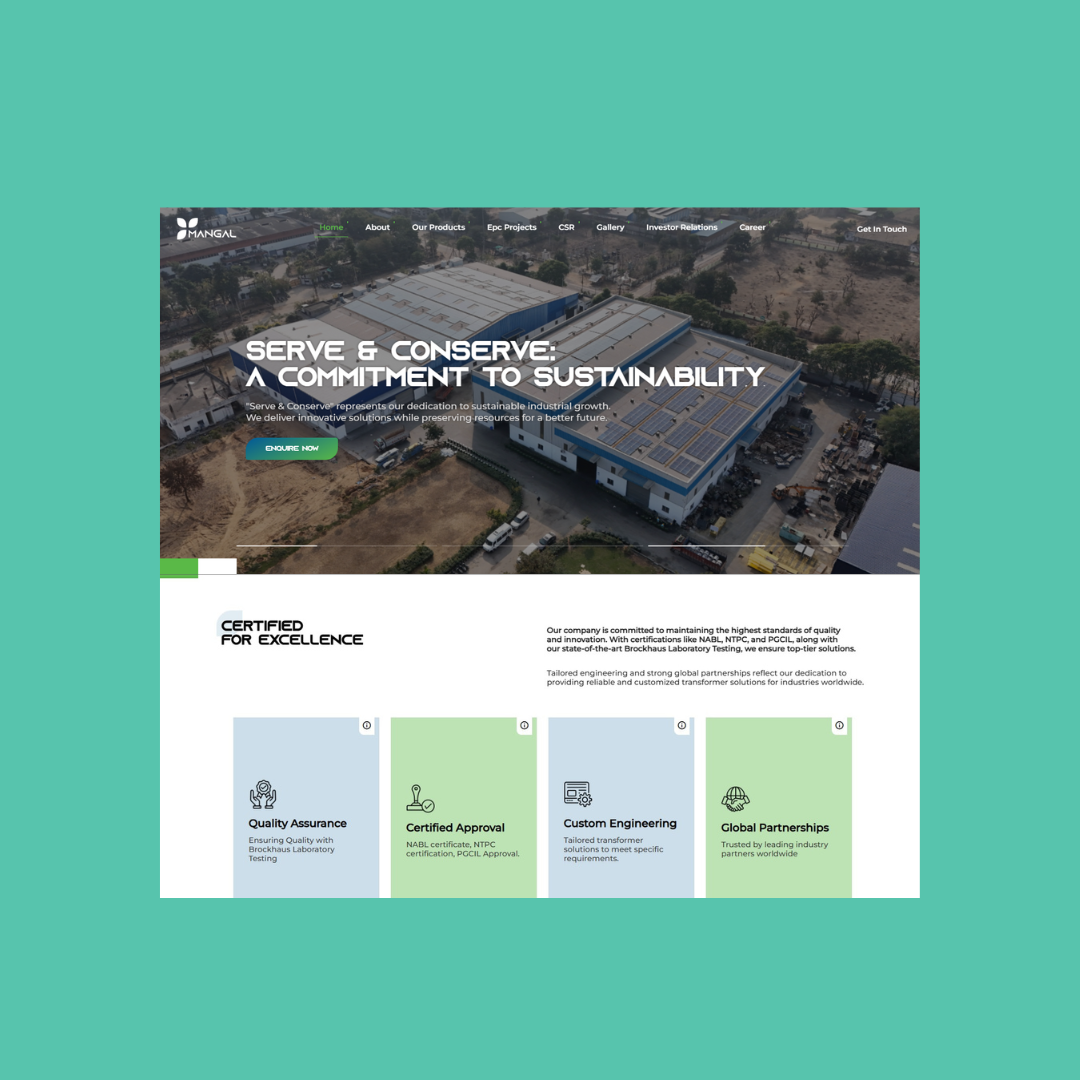
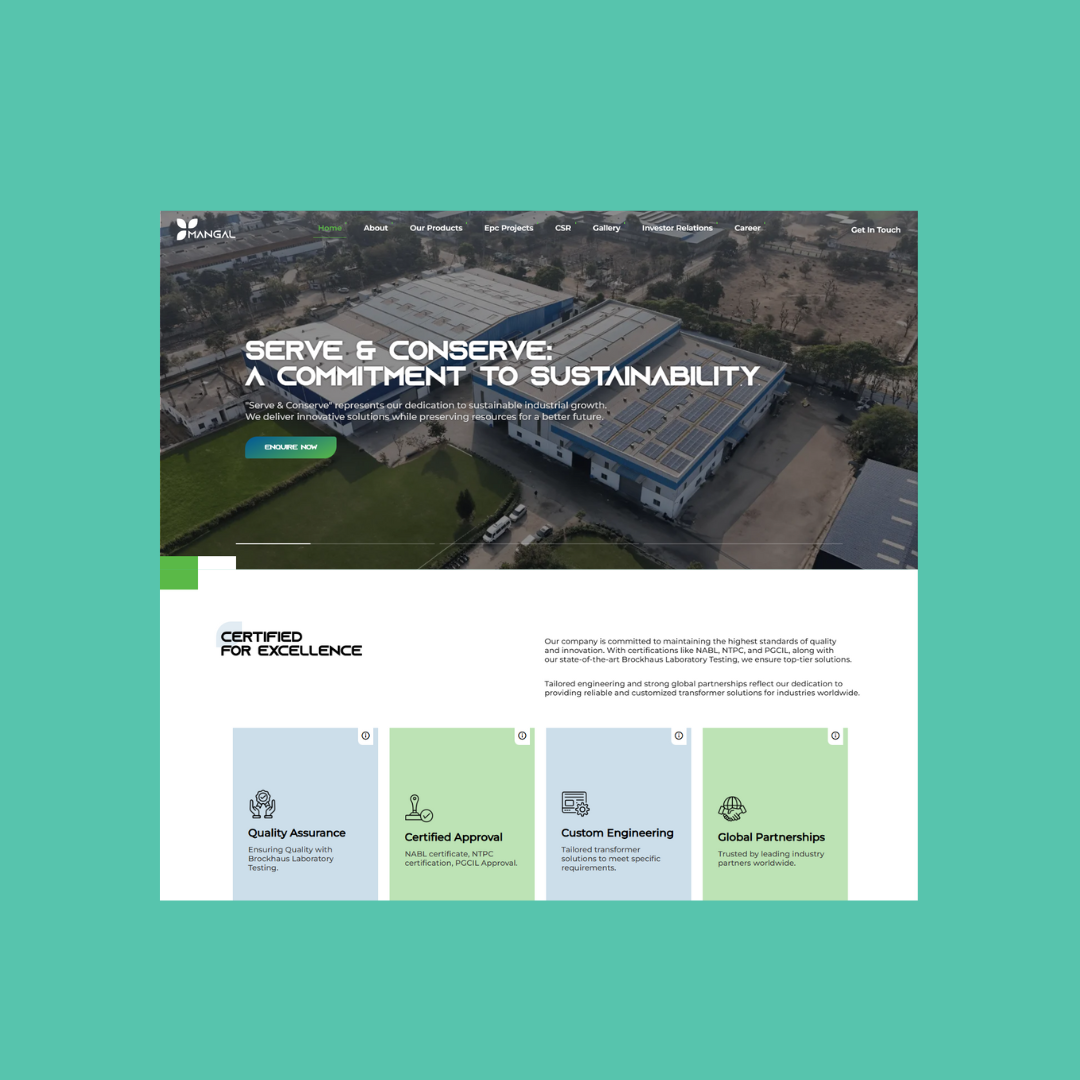
commit

diff --git a/index.html b/index.html
@@ -118,13 +118,13 @@
             style="transform: translate(100%, 100%)"
           >
             <div>
-              <p>juhunt.tech</p>
+              <p>jmangals.com</p>
               <div data-animate="true">
-                <img class="site-snapshots" src="./images/sites-snap-shots/juspace-1.png" loading="lazy" alt="Aeizei" />
-                <img class="site-snapshots" src="./images/sites-snap-shots/juspace-2.png" loading="lazy" alt="Aeizei" />
-                <img class="site-snapshots" src="./images/sites-snap-shots/juspace-3.png" loading="lazy" alt="Aeizei" />
-                <img class="site-snapshots" src="./images/sites-snap-shots/juspace-4.png" loading="lazy" alt="Aeizei" />
-                <img class="site-snapshots" src="./images/sites-snap-shots/juspace-5.png" loading="lazy" alt="Aeizei" />
+                <img class="site-snapshots" src="./images/sites-snap-shots/mangals-1.png" loading="lazy" alt="Aeizei" />
+                <img class="site-snapshots" src="./images/sites-snap-shots/mangals-2.png" loading="lazy" alt="Aeizei" />
+                <img class="site-snapshots" src="./images/sites-snap-shots/mangals-3.png" loading="lazy" alt="Aeizei" />
+                <img class="site-snapshots" src="./images/sites-snap-shots/mangals-4.png" loading="lazy" alt="Aeizei" />
+                <img class="site-snapshots" src="./images/sites-snap-shots/mangals-5.png" loading="lazy" alt="Aeizei" />
               </div>
             </div>
             <div>
@@ -510,19 +510,19 @@
               <div class="c-project__row">
                 <div class="c-project js-project u-width-1">
                   <a
-                    href="https://juhunt.tech/"
+                    href="https://www.mangals.com/"
                     target="_blank"
                   >
                     <img
                       data-scroll=""
                       data-scroll-speed="-1"
-                      src="./images/juspace-1.png"
+                      src="./images/mangal-cover-image.png"
                     />
                     <div class="c-project-info">
-                      <p>YEAR: 2023</p>
+                      <p>YEAR: 2025</p>
                       <p>ROLE: FRONT-END DEV AND UI/UX</p>
                       <div class="c-project-cta">
-                        <p>Jus<span class="o-accent">p</span>ace</p>
+                        <p>Ma<span class="o-accent">n</span>gals</p>
                         <div class="c-prj-btn js-tab-arrow">
                           <svg
                             id="arrow"
@@ -919,20 +919,20 @@
                 </div>
                 <div class="c-project js-project u-width-5">
                   <a
-                    href=""
+                    href="https://juhunt.tech/"
                     target="_blank"
                   >
                     <img
                       data-scroll=""
                       data-scroll-speed="-1"
-                      src="./images/mangal-cover-image.png"
+                      src="./images/juspace-1.png"
                       alt="Project: Vis a Via"
                     />
                     <div class="c-project-info">
-                      <p>YEAR: 2025 (Comming Soon)</p>
+                      <p>YEAR: 2023</p>
                       <p>ROLE: UI/UX AND DEV</p>
                       <div class="c-project-cta">
-                        <p>Comming Soon<span class="o-accent"></span></p>
+                        <p>Jus<span class="o-accent">p</span>ace</p>
                         <div class="c-prj-btn js-tab-arrow">
                           <svg
                             id="arrow"
